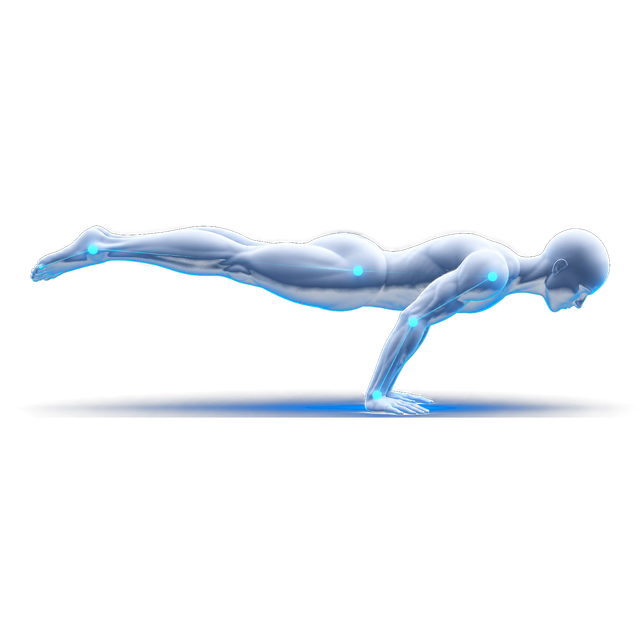
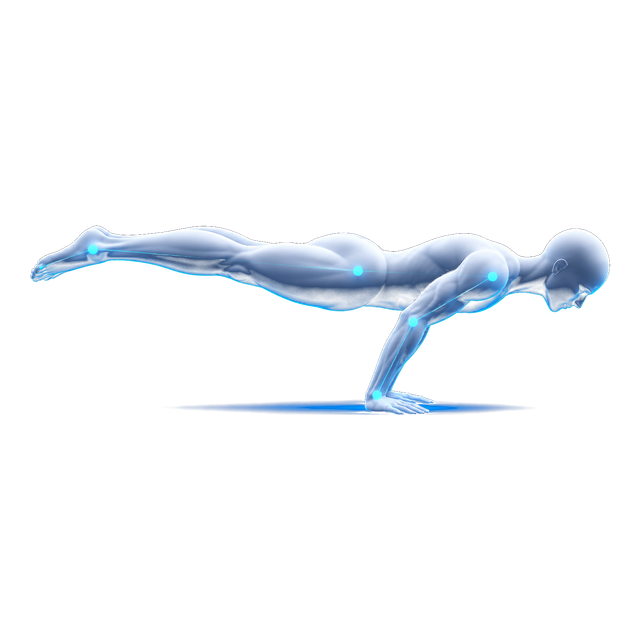
Remplace l illustration du handstand et retire la brume de decor
Nouvelle illustration du handstand, qui sert la tuile Handstand et la
variante du meme nom.

Le rendu du halo en semi-transparent revelait un second element de decor,
invisible tant que le fond etait noir : une brume diffuse autour du sujet,
qui devenait un nuage laiteux sur la carte ardoise. Elle est ecartee par un
plancher d intensite, la brume vivant entre 30 et 120 quand le reflet au sol
monte de 150 a 250. Les trois illustrations sont regenerees avec ce reglage.

diff --git a/CLAUDE.md b/CLAUDE.md
@@ -177,6 +177,13 @@ intensité, seule approximation d'un rendu additif possible dans un PNG. Le
 corps, lui, reste franchement opaque, sinon ses zones d'ombre laisseraient
 passer le fond.
 
+Ce rendu en semi-transparent a révélé un second élément de décor, invisible
+tant que le fond était noir : une brume diffuse autour du sujet, qui devenait
+un nuage laiteux une fois posée sur la carte ardoise. Elle est écartée par un
+plancher d'intensité, la brume vivant entre 30 et 120 quand le reflet monte
+de 150 à 250. Ne pas confondre les deux en retouchant le script : couper la
+brume au niveau du reflet effacerait aussi ce dernier.
+
 Le cadrage se calcule sur le corps seul, décor exclu. Cadrer sur l'image
 entière faisait varier l'échelle du personnage d'une figure à l'autre selon
 que son reflet touche ses appuis ou flotte loin en dessous : le front lever
